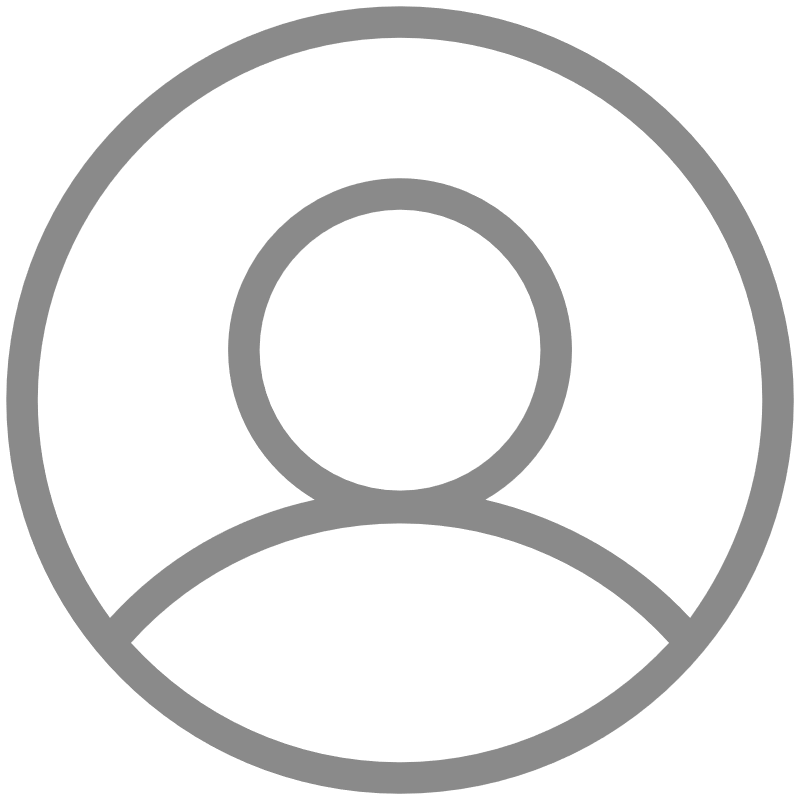
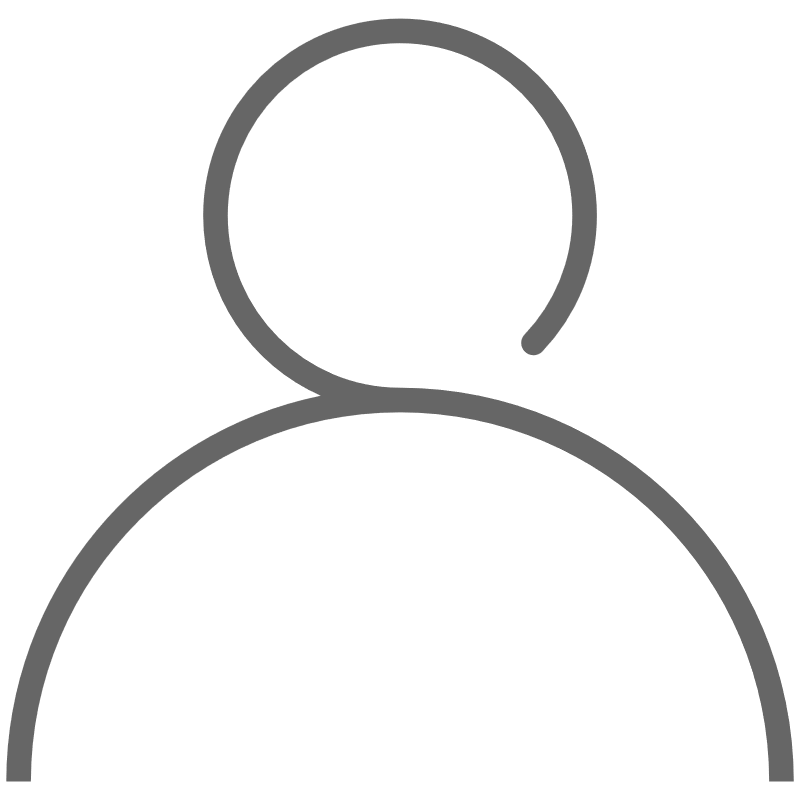
Solve the problem of keyboard floating on the registration page

Changed region(s): [[0.0, 0.0, 1.0, 1.0]]

diff --git a/pages/register/Register.tsx b/pages/register/Register.tsx
@@ -1,21 +1,42 @@
-import React from 'react'
+import React, { useEffect, useCallback, useRef, useState } from 'react'
 import {View, Text, Image, TextInput, TouchableOpacity} from 'react-native';
 import iconMap from '../../assets'
 import styles from './style'
 import { Button } from '@ant-design/react-native';
 import {NavigationProp} from '@react-navigation/native';
-
+import {Keyboard} from 'react-native'
 type Props = {
   navigation: NavigationProp<any>;
 };
 const Register = (props:Props) => {
+  const [bottomVisibleToggle, setBottomVisibleToggle] = useState<boolean>(false);
+  const keyboardDidShowAction = useCallback(
+    () => {
+      setBottomVisibleToggle(true)
+    },
+    [],
+  )
+  const keyboardDidHideAction = useCallback(
+    () => {
+      setBottomVisibleToggle(false)
+    },
+    [],
+  )
+  useEffect(() => {
+    Keyboard.addListener('keyboardDidShow',keyboardDidShowAction)
+    Keyboard.addListener('keyboardDidHide',keyboardDidHideAction)
+    return () => {
+      Keyboard.removeListener('keyboardDidShow',keyboardDidShowAction)
+      Keyboard.removeListener('keyboardDidHide',keyboardDidHideAction)
+    }
+  }, [])
     return (
       <View style={{flex: 1}}>
         <View style={styles.registerWrap}>
           <Image
             style={styles.headImage}
             resizeMode="contain"
-            source={iconMap.registerUser}
+            source={iconMap.inte}
           />
           <View style={styles.splitLine}>
             {/* <View > */}
@@ -30,7 +51,7 @@ const Register = (props:Props) => {
             继续
           </Button>
         </View>
-        <View style={styles.bottom}>
+        <View style={[styles.bottom,bottomVisibleToggle&&styles.hiddenBottom]}>
           <Text style={styles.btLeft}>有了账号？</Text>
           <TouchableOpacity onPress={()=>props.navigation.navigate('login')}>
             <Text style={styles.btRight}>请登录。</Text>
@@ -38,6 +59,6 @@ const Register = (props:Props) => {
         </View>
       </View>
     );
-}
+}  
 
 export default Register

diff --git a/pages/login/style.ts b/pages/login/style.ts
@@ -6,16 +6,17 @@ export default StyleSheet.create({
     // backgroundColor: 'red',
     justifyContent: 'center',
     backgroundColor: '#f0f0f0',
+    alignItems:'center'
   },
   logo: {
-    height: 58,
-    marginLeft: -15,
-    marginBottom: 32,
+    width: 150,
+    height: 100,
+    marginBottom: 17,
+    // backgroundColor: 'red'
   },
   input: {
     width: Dimensions.get('window').width - 50,
     marginTop: 15,
-    marginLeft: 25,
     height: 49,
     borderRadius: 4,
     borderColor: '#ccc',
@@ -25,7 +26,6 @@ export default StyleSheet.create({
   },
   button: {
     marginTop: 15,
-    marginLeft: 25,
     width: 310,
   },
   retrieve: {
@@ -55,7 +55,7 @@ export default StyleSheet.create({
     height: 1,
     marginTop: 40,
     marginBottom: 40,
-    marginLeft: 25,
+    // marginLeft: 25,
     backgroundColor: '#888',
     position: 'relative',
   },

diff --git a/pages/register/style.ts b/pages/register/style.ts
@@ -6,8 +6,15 @@ export default StyleSheet.create({
     alignItems: 'center',
     paddingLeft: 27,
     paddingRight: 27,
+    width:'100%',
+    height:'100%'
   },
-  headImage: {width: 150, height: 150, marginTop: 123},
+  headImage: {
+    width: 150,
+    height: 100,
+    marginTop: 127,
+    // backgroundColor: 'red',
+  },
 
   splitLine: {
     width: '100%',
@@ -60,6 +67,11 @@ export default StyleSheet.create({
     borderStyle: 'solid',
     bottom: 0,
     backgroundColor: '#f0f0f0',
+    
+  },
+  hiddenBottom:{
+    // display:'flex'
+    display:'none'
   },
   btLeft: {
     color: '#c1c1c1',
